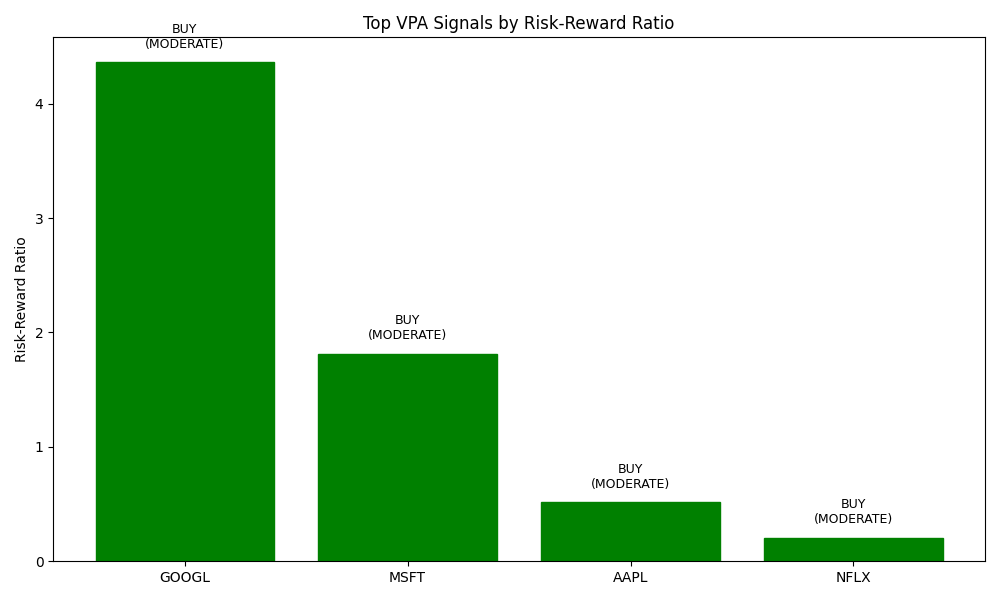
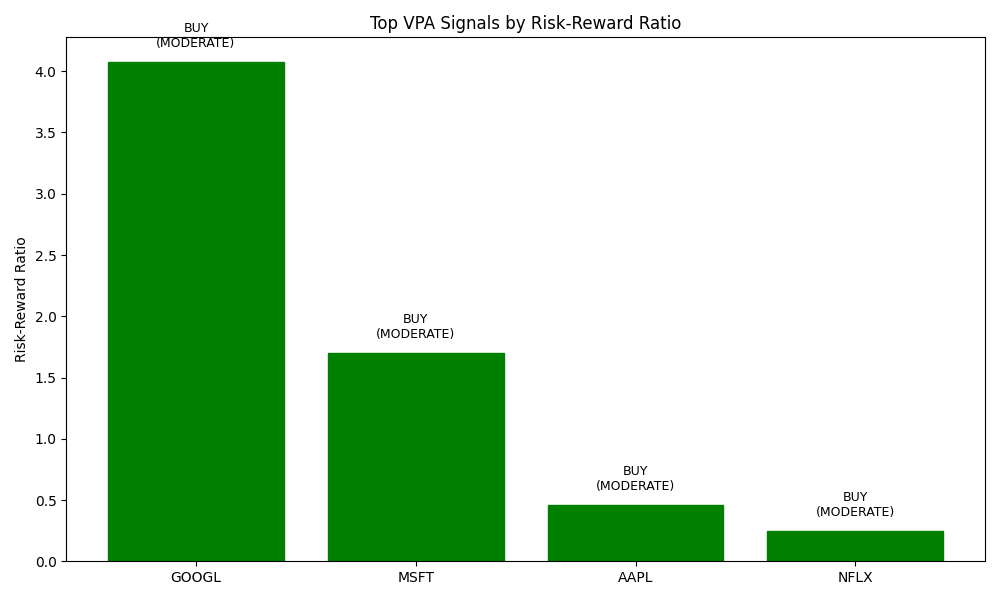
Add new VPA analysis reports and update existing report details for AAPL, GOOGL, MSFT, and NFLX; include new visualizations and update HTML dashboard with latest data.

diff --git a/vpa_batch_reports/vpa_batch_report.html b/vpa_batch_reports/vpa_batch_report.html
@@ -20,7 +20,7 @@
     </head>
     <body>
         <h1>VPA Batch Analysis Report</h1>
-        <p>Generated on: 2025-04-21 19:53:34</p>
+        <p>Generated on: 2025-04-21 20:47:42</p>
         <p>Tickers analyzed: 4</p>
         
         <h2>Dashboard</h2>
@@ -51,52 +51,52 @@
             </tr>
             
         <tr class="buy">
-            <td><a href="GOOGL/GOOGL_vpa_report_2025-04-21_19-53-13.txt" class="ticker-link">GOOGL</a></td>
+            <td><a href="GOOGL/GOOGL_vpa_report_2025-04-21_20-47-21.txt" class="ticker-link">GOOGL</a></td>
             <td>BUY</td>
             <td>MODERATE</td>
-            <td>$146.43</td>
-            <td>$143.50</td>
+            <td>$147.21</td>
+            <td>$144.27</td>
             <td>$159.20</td>
-            <td>4.36</td>
+            <td>4.07</td>
             <td>DOWN</td>
             <td>DECREASING</td>
-            <td>accumulation, distribution, testing</td>
+            <td>accumulation, distribution, testing, selling_climax</td>
         </tr>
     
         <tr class="buy">
-            <td><a href="MSFT/MSFT_vpa_report_2025-04-21_19-53-13.txt" class="ticker-link">MSFT</a></td>
+            <td><a href="MSFT/MSFT_vpa_report_2025-04-21_20-47-21.txt" class="ticker-link">MSFT</a></td>
             <td>BUY</td>
             <td>MODERATE</td>
-            <td>$358.67</td>
+            <td>$359.36</td>
             <td>$343.07</td>
             <td>$387.01</td>
-            <td>1.82</td>
+            <td>1.70</td>
             <td>DOWN</td>
             <td>DECREASING</td>
             <td>accumulation, distribution, testing</td>
         </tr>
     
         <tr class="buy">
-            <td><a href="AAPL/AAPL_vpa_report_2025-04-21_19-53-13.txt" class="ticker-link">AAPL</a></td>
+            <td><a href="AAPL/AAPL_vpa_report_2025-04-21_20-47-21.txt" class="ticker-link">AAPL</a></td>
             <td>BUY</td>
             <td>MODERATE</td>
-            <td>$190.26</td>
+            <td>$191.15</td>
             <td>$168.36</td>
             <td>$201.61</td>
-            <td>0.52</td>
+            <td>0.46</td>
             <td>DOWN</td>
             <td>DECREASING</td>
             <td>accumulation, distribution, testing</td>
         </tr>
     
         <tr class="buy">
-            <td><a href="NFLX/NFLX_vpa_report_2025-04-21_19-53-13.txt" class="ticker-link">NFLX</a></td>
+            <td><a href="NFLX/NFLX_vpa_report_2025-04-21_20-47-21.txt" class="ticker-link">NFLX</a></td>
             <td>BUY</td>
             <td>MODERATE</td>
-            <td>$992.00</td>
+            <td>$990.63</td>
             <td>$950.23</td>
             <td>$1000.58</td>
-            <td>0.21</td>
+            <td>0.25</td>
             <td>UP</td>
             <td>INCREASING</td>
             <td>accumulation, distribution</td>

diff --git a/vpa_modular/vpa_utils.py b/vpa_modular/vpa_utils.py
@@ -359,12 +359,14 @@ def plot_multi_timeframe_analysis(timeframe_analyses, output_file=None):
         volume_data = processed_data["volume"]
         
         # Plot price chart
-        plot_candlestick(axes[i][0], price_data, title=f"{timeframe} Price")
+        latest_date = price_data.index[-1].strftime('%Y-%m-%d %H:%M')
+        plot_candlestick(axes[i][0], price_data, title=f"{timeframe.upper()} – {latest_date}")
+
         
         # Add signals
         plot_vpa_signals(axes[i][0], price_data, processed_data, 
                         analysis["candle_analysis"], analysis["support_resistance"])
-        
+                       
         # Plot volume
         axes[i][1].bar(volume_data.index, volume_data, color='blue', alpha=0.5)
         axes[i][1].set_title(f"{timeframe} Volume")
@@ -384,7 +386,16 @@ def plot_multi_timeframe_analysis(timeframe_analyses, output_file=None):
         
         axes[i][1].text(0.05, 0.95, info_text, transform=axes[i][1].transAxes, 
                         verticalalignment='top', bbox=dict(boxstyle='round', facecolor='wheat', alpha=0.5))
+        
+        axes[i][0].xaxis.set_major_formatter(mdates.DateFormatter('%Y-%m-%d'))
+        plt.setp(axes[i][0].xaxis.get_majorticklabels(), rotation=45)
+        axes[i][0].grid(True, linestyle='--', linewidth=0.3, alpha=0.5)
+
+        axes[i][1].grid(True, linestyle='--', linewidth=0.3, alpha=0.5)
     
+    for label in (axes[i][0].get_xticklabels() + axes[i][1].get_xticklabels()):
+        label.set_fontsize(8)
+
     # Adjust layout
     plt.tight_layout()
     
